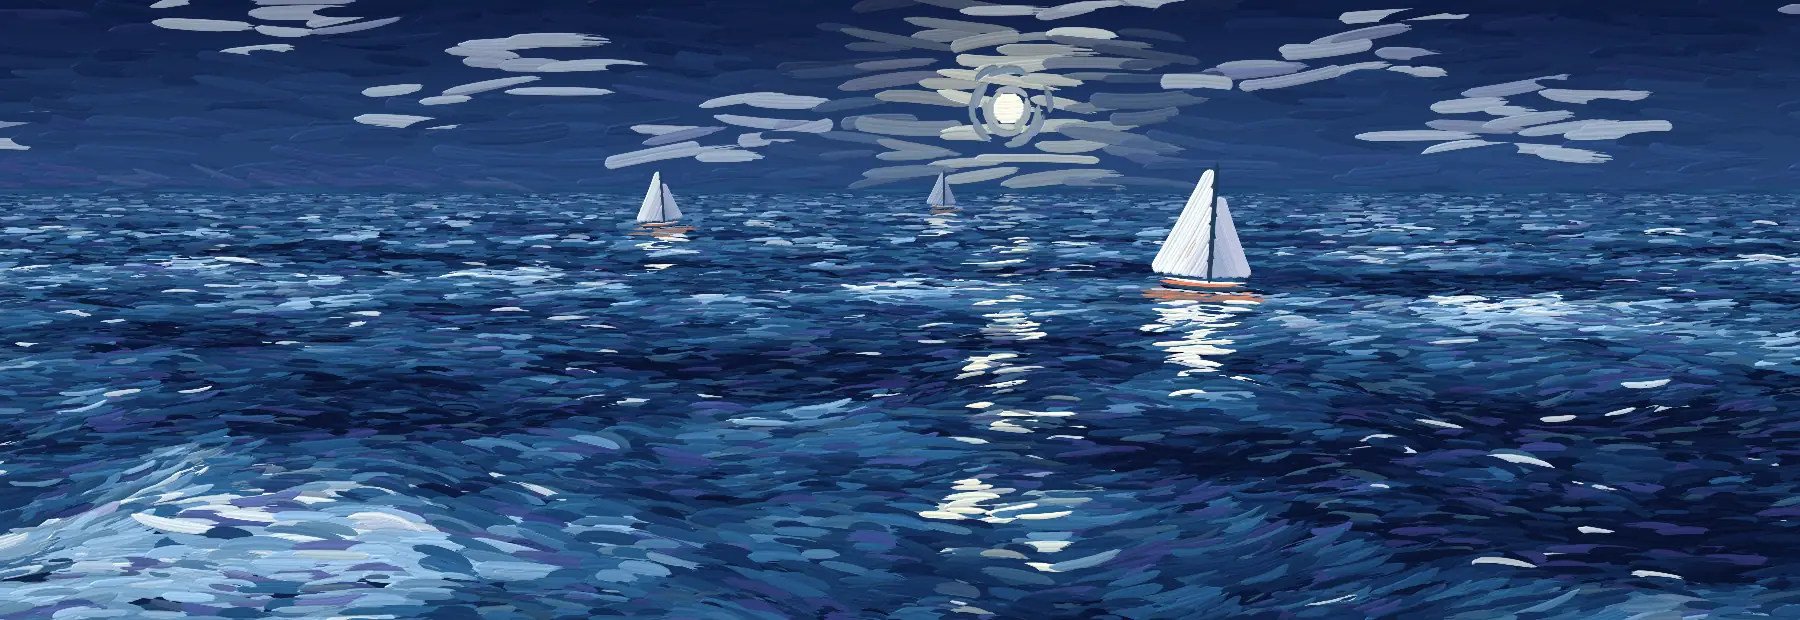
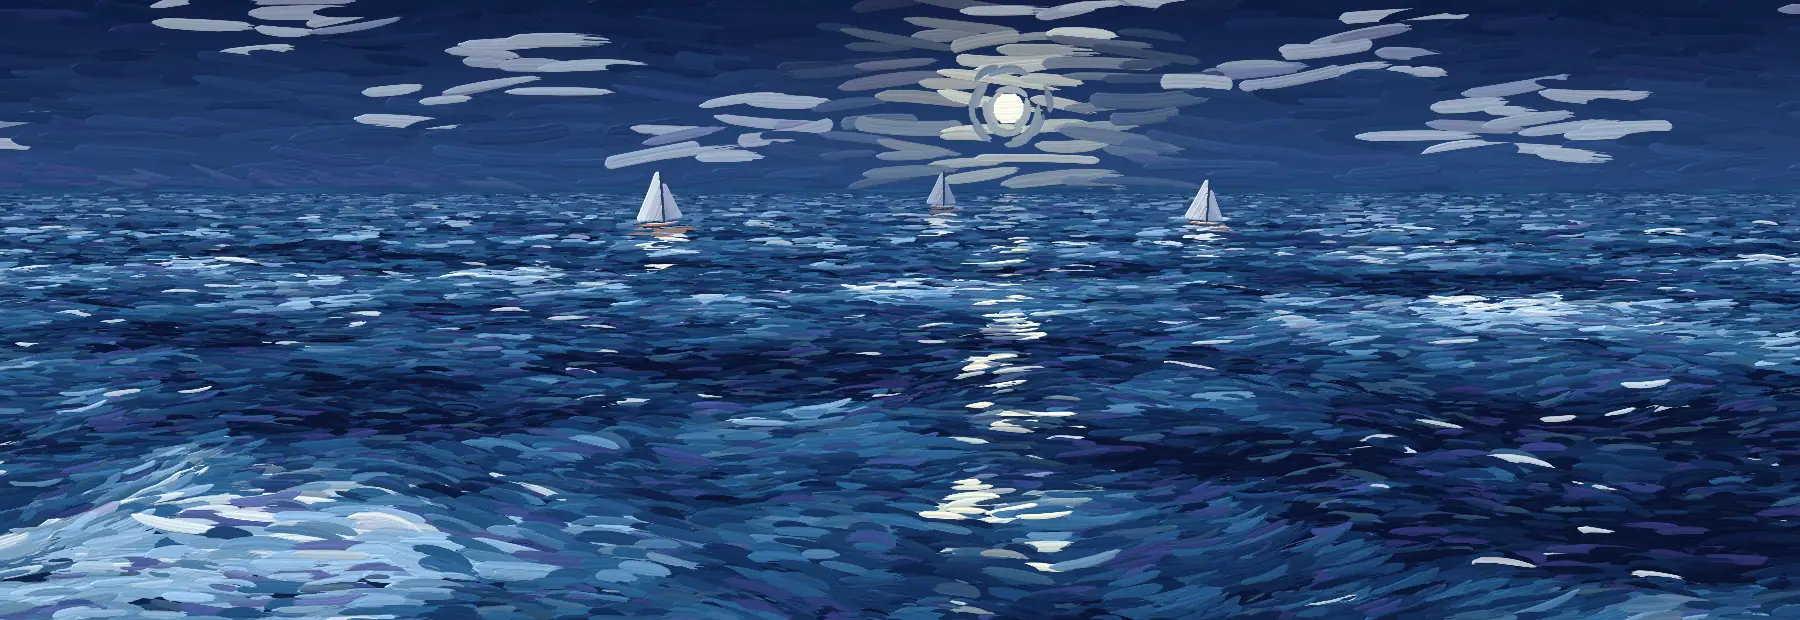
Keep the near boat behind the title at every size
On a landscape phone (844x390) the near boat sailed inside the letters of Play, and on small and tablet screens its hull touched the top of Just: boats stood at fixed spots while the title is sized per screen. The near boat now moves back along its line of sight until its water line clears the title's top by FEEL.boatClear, so it keeps its place across the screen and only shrinks where room is short; on tall screens the farthest boat moved left so the pushed-back near boat never sits beside it.

Check: npm run look at 390x844, 1440x900, 320x568, 844x390 and 768x1024 beside the run before; desktop unchanged, the others clear. Stills repainted.

Prediction: at no screen size does a boat touch a letter of the title.

Changed region(s): [[0.6222, 0.2758, 0.7156, 0.6435]]

diff --git a/src/sea/world.ts b/src/sea/world.ts
@@ -22,6 +22,7 @@ const FEEL = {
   retryLock: 0.45, idleAfter: 5.5,
   idleHop: 1.15, idleHeight: 0.09, idleTop: 0.24, // the last is how high the waiting stone reaches
   headroom: 70,                       // pixels of sky the header needs above the horizon
+  boatClear: 0.05,                    // screen units between the near boat's water line and the title's top
   sway: 0.22,
   lookUp: 0.22, lookFrom: 40, lookTo: 320, // a longer throw is rewarded with more of the sky
   teach: 2, teachFrom: 0.2, teachHold: 4, // a visitor's first touches slow down and wait this long for the tap
@@ -164,10 +165,13 @@ export class World {
   }
 
   private placeBoats() {
-    const z = this.camZ;
-    this.boats = this.tall
-      ? [{ x: 2.3, z: z + 17, scale: 1.8, lean: -0.06 }, { x: -5.2, z: z + 34, scale: 1.9, lean: 0.05 }, { x: 3.4, z: z + 60, scale: 2.2, lean: -0.04 }]
-      : [{ x: 6.4, z: z + 13, scale: 1.75, lean: -0.06 }, { x: -13, z: z + 34, scale: 2.1, lean: 0.05 }, { x: 4, z: z + 58, scale: 2.3, lean: -0.04 }];
+    const [near, ...far] = this.tall
+      ? [{ x: 2.3, z: 17, scale: 1.8, lean: -0.06 }, { x: -5.2, z: 34, scale: 1.9, lean: 0.05 }, { x: -1.2, z: 60, scale: 2.2, lean: -0.04 }]
+      : [{ x: 6.4, z: 13, scale: 1.75, lean: -0.06 }, { x: -13, z: 34, scale: 2.1, lean: 0.05 }, { x: 4, z: 58, scale: 2.3, lean: -0.04 }];
+    // the near boat sails behind the title: where the letters reach up to it, it moves back along its line of sight
+    const top = this.titleBox[1] + this.titleBox[3] + FEEL.boatClear;
+    const back = Math.max(1, (this.baseFocal * FEEL.camHeight) / Math.max(0.02, this.baseHorizon - top) / near.z);
+    this.boats = [{ ...near, x: near.x * back, z: near.z * back }, ...far].map((b) => ({ ...b, z: this.camZ + b.z }));
   }
 
   /* ---------- input ---------- */
